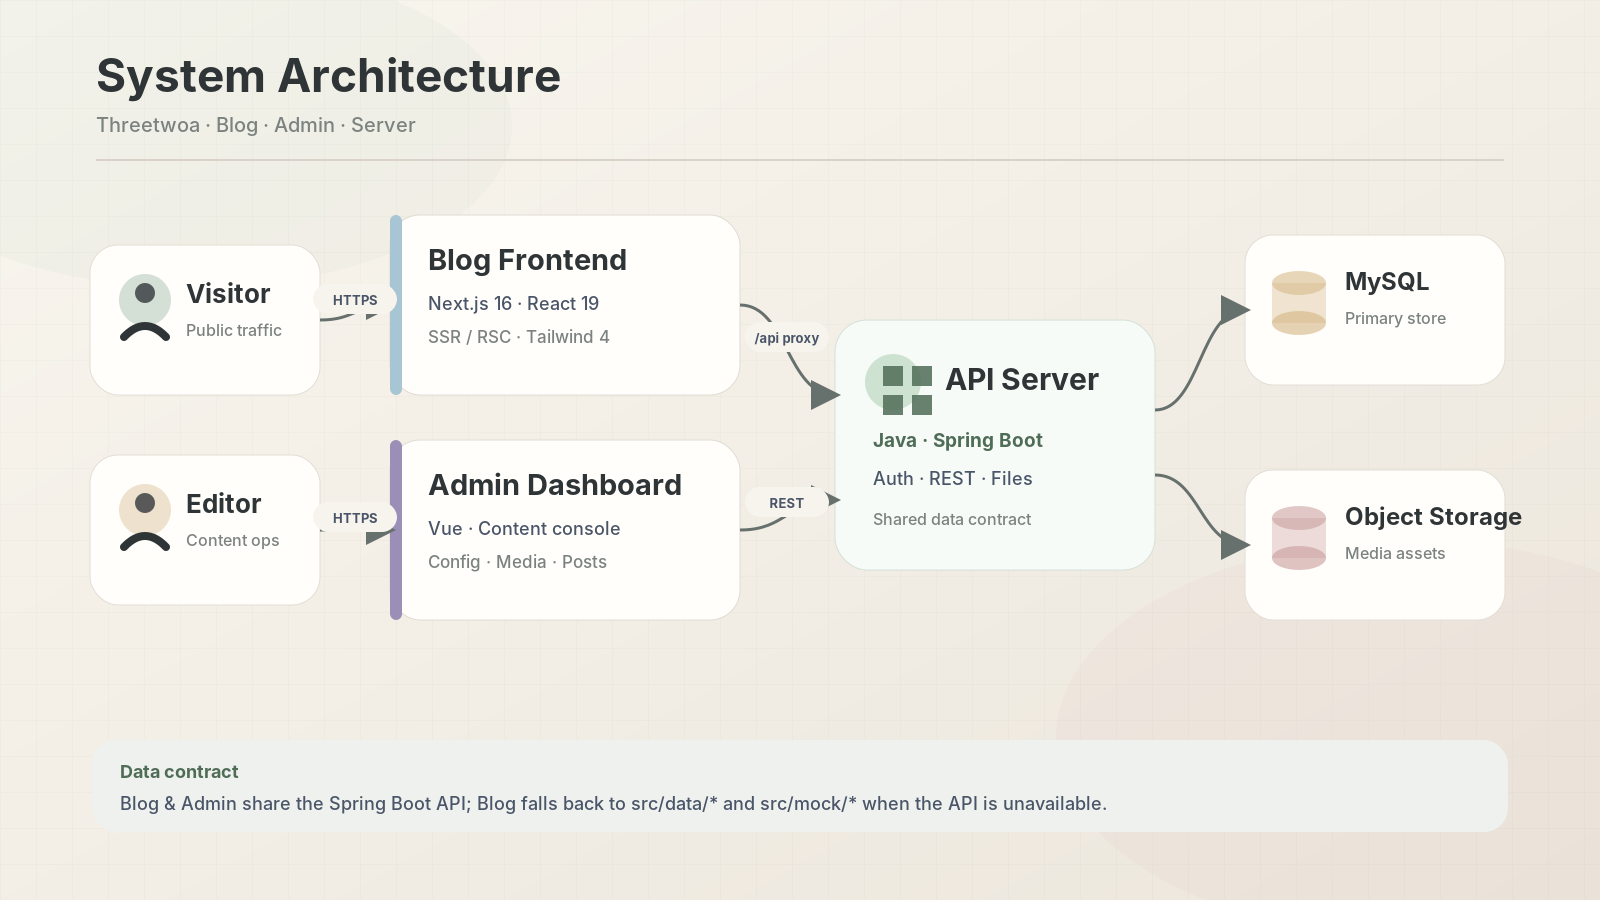
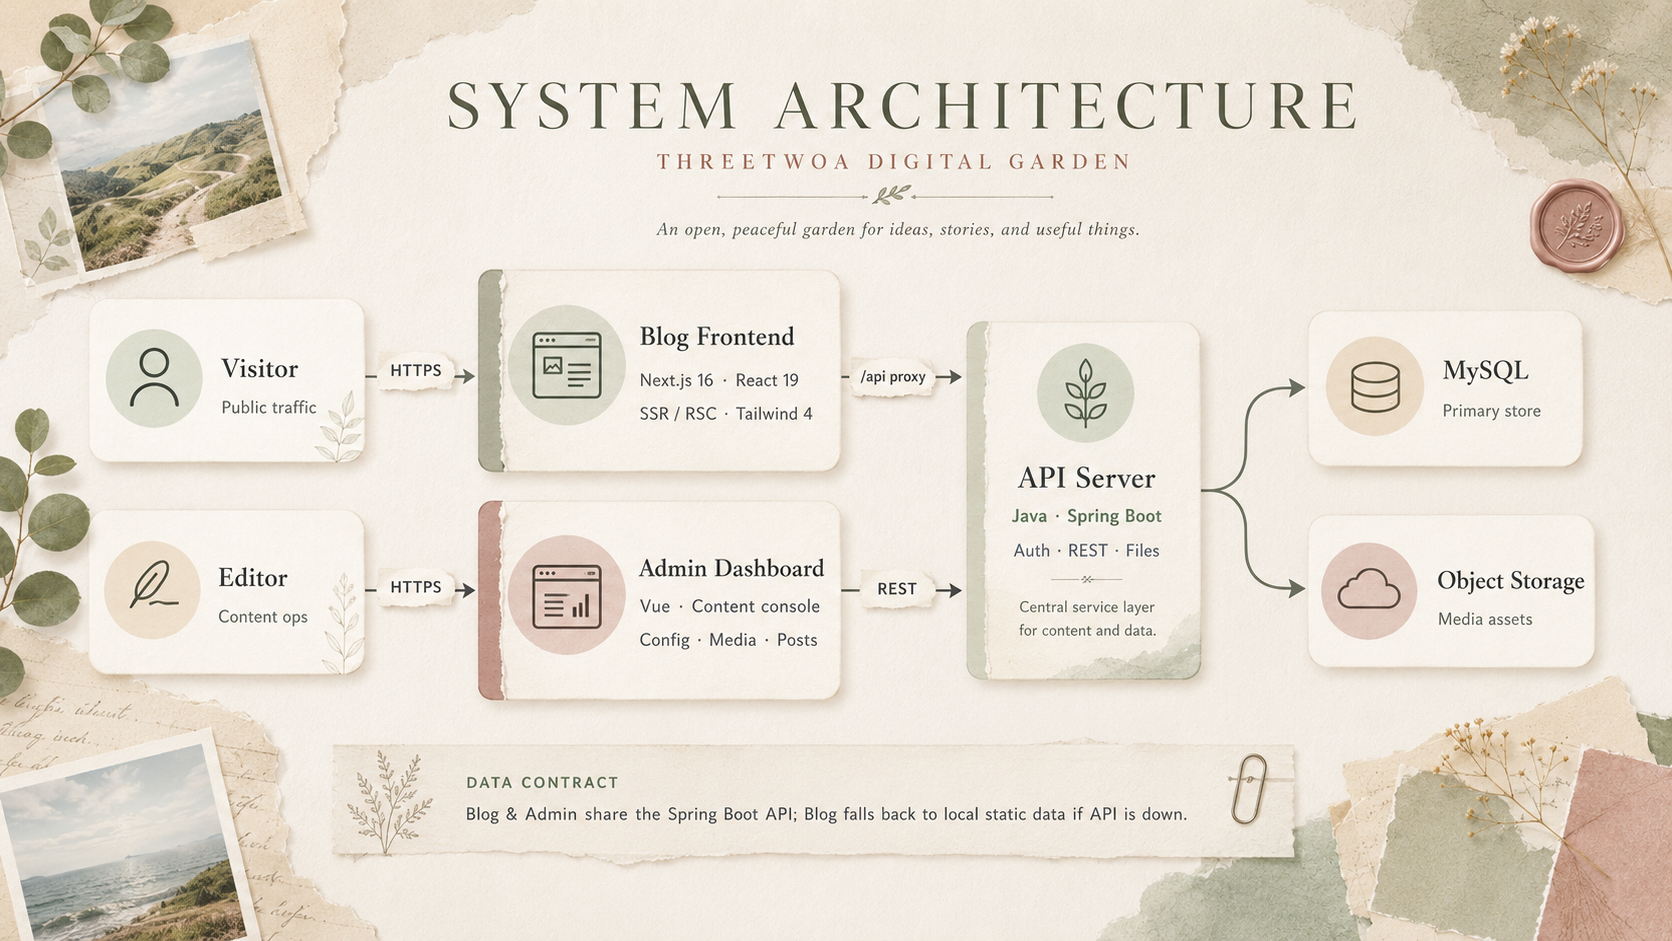
docs(readme): upgrade diagram assets and local preview
Replace SVG-era PNGs with the upgraded editorial pack, drop legacy
_svg drafts, and add readme-preview.html for local static review.

diff --git a/readme-preview.html b/readme-preview.html
@@ -1,0 +1,231 @@
+<!DOCTYPE html>
+<html lang="zh-CN">
+<head>
+  <meta charset="UTF-8" />
+  <meta name="viewport" content="width=device-width, initial-scale=1" />
+  <title>README Preview · Threetwoa Digital Garden</title>
+  <script src="https://cdn.jsdelivr.net/npm/marked/marked.min.js"></script>
+  <style>
+    :root {
+      color-scheme: light;
+      --bg: #f6f4ef;
+      --paper: #fffefb;
+      --ink: #1f2937;
+      --muted: #6b7280;
+      --line: #e7e2d8;
+      --accent: #5f7a66;
+    }
+    * { box-sizing: border-box; }
+    body {
+      margin: 0;
+      font-family: Inter, "Segoe UI", system-ui, sans-serif;
+      background:
+        radial-gradient(circle at top left, rgba(143, 175, 150, 0.12), transparent 40%),
+        var(--bg);
+      color: var(--ink);
+      line-height: 1.65;
+    }
+    .topbar {
+      position: sticky;
+      top: 0;
+      z-index: 10;
+      display: flex;
+      align-items: center;
+      justify-content: space-between;
+      gap: 1rem;
+      padding: 0.85rem 1.25rem;
+      background: rgba(255, 254, 251, 0.92);
+      border-bottom: 1px solid var(--line);
+      backdrop-filter: blur(10px);
+    }
+    .topbar strong { color: var(--accent); letter-spacing: 0.02em; }
+    .topbar span { color: var(--muted); font-size: 0.9rem; }
+    .shell {
+      max-width: 980px;
+      margin: 1.5rem auto 3rem;
+      padding: 0 1rem;
+    }
+    .paper {
+      background: var(--paper);
+      border: 1px solid var(--line);
+      border-radius: 18px;
+      padding: 2rem 2.25rem 3rem;
+      box-shadow: 0 18px 50px rgba(47, 52, 55, 0.06);
+    }
+    #content :is(h1, h2, h3) {
+      line-height: 1.25;
+      scroll-margin-top: 4rem;
+    }
+    #content h1 {
+      font-size: 2rem;
+      margin: 0 0 0.75rem;
+      border-bottom: 1px solid var(--line);
+      padding-bottom: 0.6rem;
+    }
+    #content h2 {
+      font-size: 1.45rem;
+      margin: 2.2rem 0 0.9rem;
+      padding-top: 0.4rem;
+      border-top: 1px solid var(--line);
+    }
+    #content h3 {
+      font-size: 1.1rem;
+      margin: 1.4rem 0 0.6rem;
+    }
+    #content blockquote {
+      margin: 1rem 0;
+      padding: 0.15rem 0 0.15rem 1rem;
+      border-left: 3px solid #c99b9b;
+      color: var(--muted);
+    }
+    #content p { margin: 0.75rem 0; }
+    #content ul, #content ol { padding-left: 1.35rem; }
+    #content li { margin: 0.25rem 0; }
+    #content table {
+      width: 100%;
+      border-collapse: collapse;
+      margin: 1rem 0;
+      font-size: 0.95rem;
+    }
+    #content th, #content td {
+      border: 1px solid var(--line);
+      padding: 0.55rem 0.7rem;
+      vertical-align: top;
+    }
+    #content th { background: #f7f4ee; text-align: left; }
+    #content img {
+      max-width: 100%;
+      height: auto;
+      border-radius: 12px;
+      border: 1px solid var(--line);
+      background: #fff;
+      display: block;
+      margin: 1rem auto;
+    }
+    #content pre {
+      overflow: auto;
+      background: #0f172a;
+      color: #e2e8f0;
+      padding: 1rem 1.1rem;
+      border-radius: 12px;
+      font-size: 0.88rem;
+    }
+    #content code {
+      font-family: "JetBrains Mono", Consolas, monospace;
+      font-size: 0.9em;
+    }
+    #content :not(pre) > code {
+      background: #f1efe8;
+      padding: 0.1em 0.35em;
+      border-radius: 5px;
+    }
+    #content hr {
+      border: 0;
+      border-top: 1px solid var(--line);
+      margin: 1.5rem 0;
+    }
+    #content a { color: #3f6f8f; }
+    .status {
+      margin: 1rem 0 0;
+      padding: 0.75rem 1rem;
+      border-radius: 10px;
+      background: #ecfdf5;
+      color: #065f46;
+      border: 1px solid #a7f3d0;
+      font-size: 0.92rem;
+    }
+    .status.error {
+      background: #fef2f2;
+      color: #991b1b;
+      border-color: #fecaca;
+    }
+    .asset-check {
+      margin-top: 1rem;
+      font-size: 0.88rem;
+      color: var(--muted);
+    }
+    .asset-check code { color: var(--ink); }
+  </style>
+</head>
+<body>
+  <div class="topbar">
+    <div>
+      <strong>README Preview</strong>
+      <span> · Threetwoa Digital Garden · local static view</span>
+    </div>
+    <span id="meta">loading…</span>
+  </div>
+
+  <div class="shell">
+    <div id="banner-status" class="status" style="display:none"></div>
+    <div class="paper">
+      <div id="content">Loading README.md…</div>
+    </div>
+    <div id="asset-check" class="asset-check"></div>
+  </div>
+
+  <script>
+    const assets = [
+      "assets/images/readme/banner.png",
+      "assets/images/readme/features.png",
+      "assets/images/readme/architecture.png",
+      "assets/images/readme/tech-stack.png",
+      "assets/images/readme/workflow.png",
+      "assets/images/readme/structure.png",
+      "assets/images/readme/showcase-home.png",
+      "assets/images/readme/showcase-writing.png",
+      "assets/images/readme/showcase-article-detail.png",
+      "assets/images/readme/showcase-gallery.png",
+      "assets/images/readme/showcase-about.png",
+    ];
+
+    async function checkAssets() {
+      const results = await Promise.all(assets.map(async (src) => {
+        try {
+          const res = await fetch(src, { method: "HEAD" });
+          return { src, ok: res.ok };
+        } catch {
+          return { src, ok: false };
+        }
+      }));
+      const bad = results.filter((r) => !r.ok);
+      const el = document.getElementById("asset-check");
+      const status = document.getElementById("banner-status");
+      if (bad.length === 0) {
+        status.style.display = "block";
+        status.className = "status";
+        status.textContent = `All ${results.length} README assets loaded successfully.`;
+        el.innerHTML = results.map((r) => `✅ <code>${r.src}</code>`).join("<br>");
+      } else {
+        status.style.display = "block";
+        status.className = "status error";
+        status.textContent = `${bad.length} asset(s) failed to load.`;
+        el.innerHTML = results.map((r) => `${r.ok ? "✅" : "❌"} <code>${r.src}</code>`).join("<br>");
+      }
+      return bad.length === 0;
+    }
+
+    async function main() {
+      const meta = document.getElementById("meta");
+      try {
+        const res = await fetch("README.md", { cache: "no-store" });
+        if (!res.ok) throw new Error(`README.md HTTP ${res.status}`);
+        const md = await res.text();
+        // marked preserves raw HTML in README (img tags, badges)
+        document.getElementById("content").innerHTML = marked.parse(md, {
+          gfm: true,
+          breaks: false,
+        });
+        meta.textContent = `README.md · ${(md.length / 1024).toFixed(1)} KB · ${new Date().toLocaleTimeString()}`;
+        await checkAssets();
+      } catch (err) {
+        document.getElementById("content").innerHTML =
+          `<p style="color:#991b1b">Failed to load README.md. Serve this file from the project root (e.g. <code>npx serve .</code>).</p><pre>${String(err)}</pre>`;
+        meta.textContent = "error";
+      }
+    }
+
+    main();
+  </script>
+</body>
+</html>
